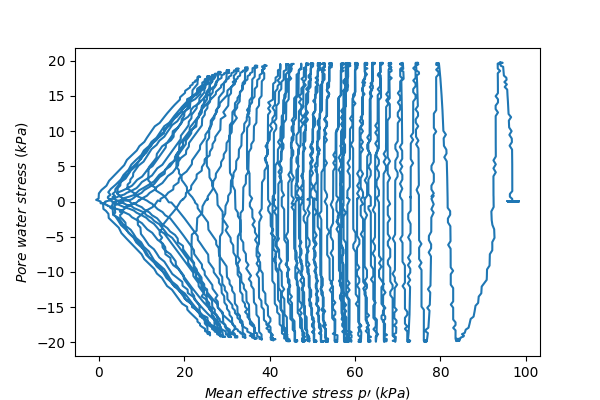
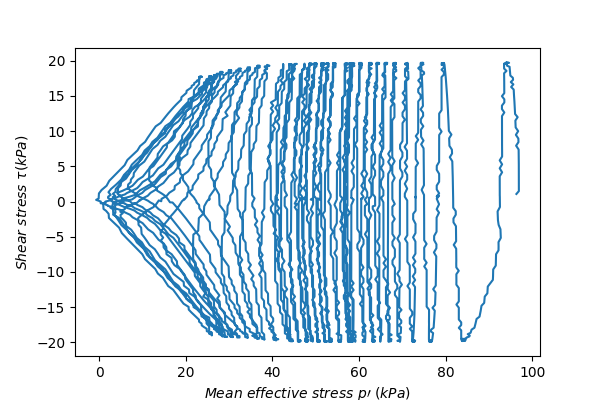
axis title modified; ready for merge with remote

diff --git a/experiment/test240829/draw_p_tau.py b/experiment/test240829/draw_p_tau.py
@@ -19,7 +19,7 @@ time = np.linspace(0, len(effe_stress)*freq_record, len(effe_stress))
 def get_index_begin(shear_stress):
 	index_begin = 0
 	for stress in shear_stress:
-		if stress <= 0.5:
+		if stress <= 1.0:
 			index_begin += 1
 		else:
 			break
@@ -39,8 +39,8 @@ def get_index_liq(lateral_stress, index_begin):
 
 index_liq = get_index_liq(lateral_stress, index_begin)
 
-effe_stress = effe_stress[index_begin:index_liq]
-shear_stress = shear_stress[index_begin:index_liq]
+effe_stress = effe_stress[index_begin:]
+shear_stress = shear_stress[index_begin:]
 
 time_begin = time[index_begin]
 time_liq = time[index_liq] - time_begin
@@ -49,7 +49,7 @@ print(time_liq/10.)
 
 ax.plot(effe_stress, shear_stress)
 ax.set_xlabel(r"$Mean\ effective\ stress\ p\prime\ (kPa)$")
-ax.set_ylabel(r"$Pore\ water\ stress\ (kPa)$")
+ax.set_ylabel(r"$Shear\ stress\ \tau(kPa)$")
 
 plt.savefig('p-tau.png')
 plt.show()

diff --git a/experiment/test240902/draw_p_tau.py b/experiment/test240902/draw_p_tau.py
@@ -19,7 +19,7 @@ time = np.linspace(0, len(effe_stress)*freq_record, len(effe_stress))
 def get_index_begin(shear_stress):
 	index_begin = 0
 	for stress in shear_stress:
-		if stress <= 0.5:
+		if stress <= 1.0:
 			index_begin += 1
 		else:
 			break
@@ -39,8 +39,8 @@ def get_index_liq(lateral_stress, index_begin):
 
 index_liq = get_index_liq(lateral_stress, index_begin)
 
-effe_stress = effe_stress[index_begin:index_liq]
-shear_stress = shear_stress[index_begin:index_liq]
+effe_stress = effe_stress[index_begin:]
+shear_stress = shear_stress[index_begin:]
 
 time_begin = time[index_begin]
 time_liq = time[index_liq] - time_begin
@@ -49,7 +49,7 @@ print(time_liq/10.)
 
 ax.plot(effe_stress, shear_stress)
 ax.set_xlabel(r"$Mean\ effective\ stress\ p\prime\ (kPa)$")
-ax.set_ylabel(r"$Pore\ water\ stress\ (kPa)$")
+ax.set_ylabel(r"$Shear\ stress\ \tau(kPa)$")
 
 plt.savefig('p-tau.png')
 plt.show()

diff --git a/experiment/test240909/draw_p_tau.py b/experiment/test240909/draw_p_tau.py
@@ -19,7 +19,7 @@ time = np.linspace(0, len(effe_stress)*freq_record, len(effe_stress))
 def get_index_begin(shear_stress):
 	index_begin = 0
 	for stress in shear_stress:
-		if stress <= 0.5:
+		if stress <= 1.0:
 			index_begin += 1
 		else:
 			break
@@ -39,8 +39,8 @@ def get_index_liq(lateral_stress, index_begin):
 
 index_liq = get_index_liq(lateral_stress, index_begin)
 
-effe_stress = effe_stress[index_begin:index_liq]
-shear_stress = shear_stress[index_begin:index_liq]
+effe_stress = effe_stress[index_begin:]
+shear_stress = shear_stress[index_begin:]
 
 time_begin = time[index_begin]
 time_liq = time[index_liq] - time_begin
@@ -49,7 +49,7 @@ print(time_liq/10.)
 
 ax.plot(effe_stress, shear_stress)
 ax.set_xlabel(r"$Mean\ effective\ stress\ p\prime\ (kPa)$")
-ax.set_ylabel(r"$Pore\ water\ stress\ (kPa)$")
+ax.set_ylabel(r"$Shear\ stress\ \tau(kPa)$")
 
 plt.savefig('p-tau.png')
 plt.show()

diff --git a/experiment/test240910/draw_p_tau.py b/experiment/test240910/draw_p_tau.py
@@ -19,7 +19,7 @@ time = np.linspace(0, len(effe_stress)*freq_record, len(effe_stress))
 def get_index_begin(shear_stress):
 	index_begin = 0
 	for stress in shear_stress:
-		if stress <= 0.5:
+		if stress <= 1.0:
 			index_begin += 1
 		else:
 			break
@@ -39,8 +39,8 @@ def get_index_liq(lateral_stress, index_begin):
 
 index_liq = get_index_liq(lateral_stress, index_begin)
 
-effe_stress = effe_stress[index_begin:index_liq]
-shear_stress = shear_stress[index_begin:index_liq]
+effe_stress = effe_stress[index_begin:]
+shear_stress = shear_stress[index_begin:]
 
 time_begin = time[index_begin]
 time_liq = time[index_liq] - time_begin
@@ -49,7 +49,7 @@ print(time_liq/10.)
 
 ax.plot(effe_stress, shear_stress)
 ax.set_xlabel(r"$Mean\ effective\ stress\ p\prime\ (kPa)$")
-ax.set_ylabel(r"$Pore\ water\ stress\ (kPa)$")
+ax.set_ylabel(r"$Shear\ stress\ \tau(kPa)$")
 
 plt.savefig('p-tau.png')
 plt.show()

diff --git a/experiment/test240911/draw_p_tau.py b/experiment/test240911/draw_p_tau.py
@@ -19,7 +19,7 @@ time = np.linspace(0, len(effe_stress)*freq_record, len(effe_stress))
 def get_index_begin(shear_stress):
 	index_begin = 0
 	for stress in shear_stress:
-		if stress <= 0.5:
+		if stress <= 1.0:
 			index_begin += 1
 		else:
 			break
@@ -39,8 +39,8 @@ def get_index_liq(lateral_stress, index_begin):
 
 index_liq = get_index_liq(lateral_stress, index_begin)
 
-effe_stress = effe_stress[index_begin:index_liq]
-shear_stress = shear_stress[index_begin:index_liq]
+effe_stress = effe_stress[index_begin:]
+shear_stress = shear_stress[index_begin:]
 
 time_begin = time[index_begin]
 time_liq = time[index_liq] - time_begin
@@ -49,7 +49,7 @@ print(time_liq/10.)
 
 ax.plot(effe_stress, shear_stress)
 ax.set_xlabel(r"$Mean\ effective\ stress\ p\prime\ (kPa)$")
-ax.set_ylabel(r"$Pore\ water\ stress\ (kPa)$")
+ax.set_ylabel(r"$Shear\ stress\ \tau(kPa)$")
 
 plt.savefig('p-tau.png')
 plt.show()

diff --git a/experiment/test240912/draw_p_tau.py b/experiment/test240912/draw_p_tau.py
@@ -19,7 +19,7 @@ time = np.linspace(0, len(effe_stress)*freq_record, len(effe_stress))
 def get_index_begin(shear_stress):
 	index_begin = 0
 	for stress in shear_stress:
-		if stress <= 0.5:
+		if stress <= 1.0:
 			index_begin += 1
 		else:
 			break
@@ -39,8 +39,8 @@ def get_index_liq(lateral_stress, index_begin):
 
 index_liq = get_index_liq(lateral_stress, index_begin)
 
-effe_stress = effe_stress[index_begin:index_liq]
-shear_stress = shear_stress[index_begin:index_liq]
+effe_stress = effe_stress[index_begin:]
+shear_stress = shear_stress[index_begin:]
 
 time_begin = time[index_begin]
 time_liq = time[index_liq] - time_begin
@@ -49,7 +49,7 @@ print(time_liq/10.)
 
 ax.plot(effe_stress, shear_stress)
 ax.set_xlabel(r"$Mean\ effective\ stress\ p\prime\ (kPa)$")
-ax.set_ylabel(r"$Pore\ water\ stress\ (kPa)$")
+ax.set_ylabel(r"$Shear\ stress\ \tau(kPa)$")
 
 plt.savefig('p-tau.png')
 plt.show()

diff --git a/experiment/test240913/draw_p_tau.py b/experiment/test240913/draw_p_tau.py
@@ -19,7 +19,7 @@ time = np.linspace(0, len(effe_stress)*freq_record, len(effe_stress))
 def get_index_begin(shear_stress):
 	index_begin = 0
 	for stress in shear_stress:
-		if stress <= 0.5:
+		if stress <= 1.0:
 			index_begin += 1
 		else:
 			break
@@ -39,8 +39,8 @@ def get_index_liq(lateral_stress, index_begin):
 
 index_liq = get_index_liq(lateral_stress, index_begin)
 
-effe_stress = effe_stress[index_begin:index_liq]
-shear_stress = shear_stress[index_begin:index_liq]
+effe_stress = effe_stress[index_begin:]
+shear_stress = shear_stress[index_begin:]
 
 time_begin = time[index_begin]
 time_liq = time[index_liq] - time_begin
@@ -49,7 +49,7 @@ print(time_liq/10.)
 
 ax.plot(effe_stress, shear_stress)
 ax.set_xlabel(r"$Mean\ effective\ stress\ p\prime\ (kPa)$")
-ax.set_ylabel(r"$Pore\ water\ stress\ (kPa)$")
+ax.set_ylabel(r"$Shear\ stress\ \tau(kPa)$")
 
 plt.savefig('p-tau.png')
 plt.show()

diff --git a/experiment/test241008/draw_p_tau.py b/experiment/test241008/draw_p_tau.py
@@ -19,7 +19,7 @@ time = np.linspace(0, len(effe_stress)*freq_record, len(effe_stress))
 def get_index_begin(shear_stress):
 	index_begin = 0
 	for stress in shear_stress:
-		if stress <= 0.5:
+		if stress <= 1.0:
 			index_begin += 1
 		else:
 			break
@@ -45,11 +45,11 @@ shear_stress = shear_stress[index_begin:]
 time_begin = time[index_begin]
 time_liq = time[index_liq] - time_begin
 print(time_begin)
-print(time_liq/10. )
+print(time_liq/10.)
 
 ax.plot(effe_stress, shear_stress)
 ax.set_xlabel(r"$Mean\ effective\ stress\ p\prime\ (kPa)$")
-ax.set_ylabel(r"$Pore\ water\ stress\ (kPa)$")
+ax.set_ylabel(r"$Shear\ stress\ \tau(kPa)$")
 
 plt.savefig('p-tau.png')
 plt.show()

diff --git a/experiment/test241009/draw_p_tau.py b/experiment/test241009/draw_p_tau.py
@@ -49,7 +49,7 @@ print(time_liq/10.)
 
 ax.plot(effe_stress, shear_stress)
 ax.set_xlabel(r"$Mean\ effective\ stress\ p\prime\ (kPa)$")
-ax.set_ylabel(r"$Pore\ water\ stress\ (kPa)$")
+ax.set_ylabel(r"$Shear\ stress\ \tau(kPa)$")
 
 plt.savefig('p-tau.png')
 plt.show()
